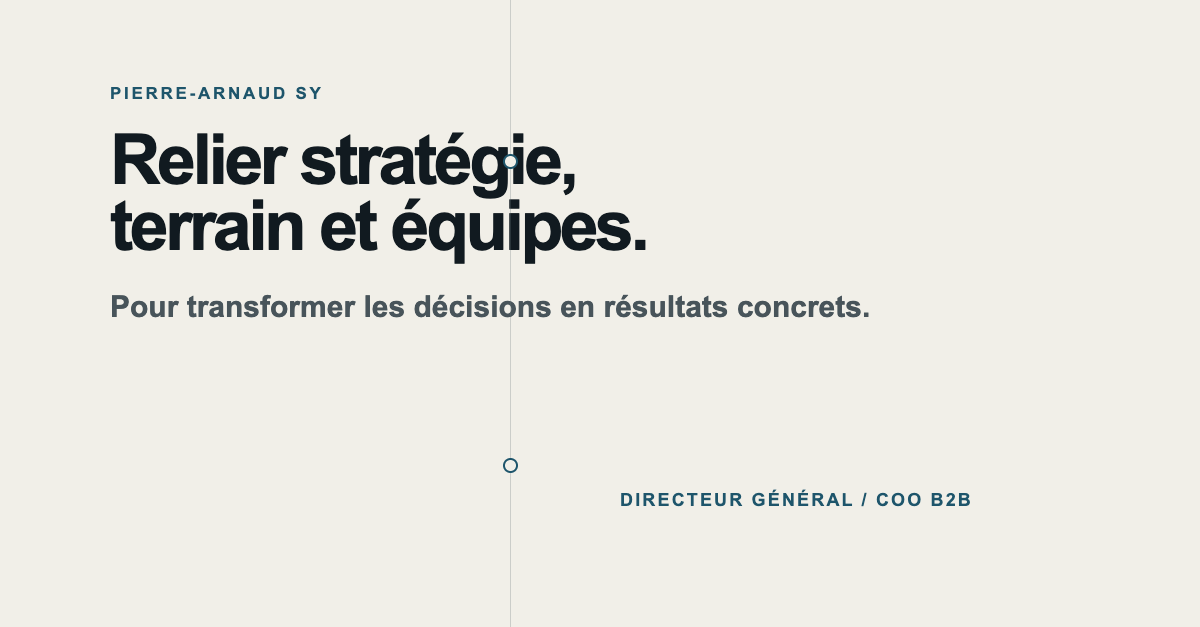
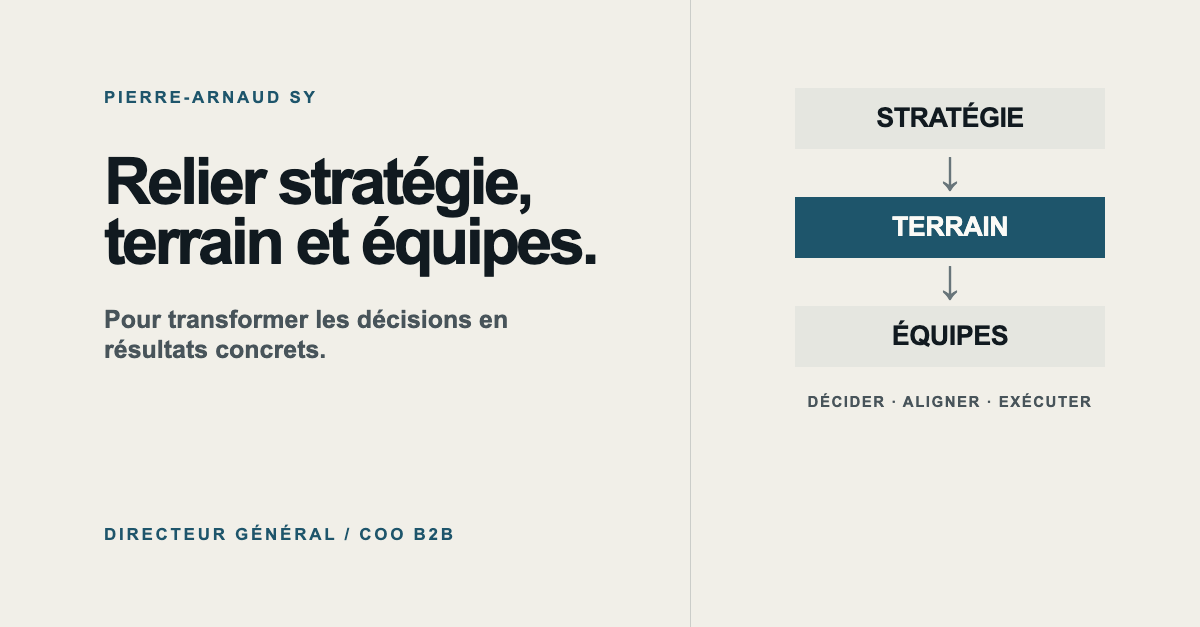
Refresh LinkedIn summary preview image

diff --git a/assets/og-image.html b/assets/og-image.html
@@ -4,7 +4,9 @@
   <meta charset="utf-8">
   <style>
     * { box-sizing: border-box; }
+
     body {
+      position: relative;
       width: 1200px;
       height: 627px;
       margin: 0;
@@ -12,23 +14,112 @@
       background: #F1EFE8;
       color: #111A20;
       font-family: Lato, "Liberation Sans", Arial, sans-serif;
-      padding: 84px 110px;
     }
-    .axis { position: absolute; top: 0; bottom: 0; left: 510px; width: 1px; background: rgba(104, 117, 122, 0.28); }
-    .axis::before, .axis::after { content: ""; position: absolute; left: -7px; width: 11px; height: 11px; border: 2px solid #1E556B; border-radius: 50%; background: #F1EFE8; }
-    .axis::before { top: 154px; }
-    .axis::after { bottom: 154px; }
-    .eyebrow { margin: 0 0 24px; color: #1E556B; font-size: 17px; font-weight: 700; letter-spacing: 0.16em; text-transform: uppercase; }
-    h1 { width: 800px; margin: 0; font-size: 70px; font-weight: 900; letter-spacing: -0.05em; line-height: 0.94; }
-    .sub { margin: 30px 0 0; color: #48545A; font-size: 30px; font-weight: 700; }
-    .role { position: absolute; left: 620px; bottom: 98px; color: #1E556B; font-size: 18px; font-weight: 700; letter-spacing: 0.12em; text-transform: uppercase; }
+
+    .left {
+      position: absolute;
+      top: 0;
+      bottom: 0;
+      left: 0;
+      width: 690px;
+      padding: 88px 0 78px 104px;
+    }
+
+    .eyebrow,
+    .role {
+      margin: 0;
+      color: #1E556B;
+      font-size: 17px;
+      font-weight: 700;
+      letter-spacing: 0.16em;
+      text-transform: uppercase;
+    }
+
+    h1 {
+      margin: 44px 0 32px;
+      font-size: 65px;
+      font-weight: 900;
+      letter-spacing: -0.055em;
+      line-height: 0.92;
+    }
+
+    .subline {
+      width: 470px;
+      margin: 0;
+      color: #48545A;
+      font-size: 25px;
+      font-weight: 700;
+      line-height: 1.2;
+    }
+
+    .role { position: absolute; bottom: 82px; }
+
+    .divider {
+      position: absolute;
+      top: 0;
+      bottom: 0;
+      left: 690px;
+      width: 1px;
+      background: rgba(104, 117, 122, 0.28);
+    }
+
+    .diagram {
+      position: absolute;
+      top: 88px;
+      right: 95px;
+      display: flex;
+      flex-direction: column;
+      align-items: center;
+      width: 310px;
+    }
+
+    .node {
+      width: 310px;
+      padding: 17px 20px;
+      background: rgba(30, 85, 107, 0.06);
+      color: #111A20;
+      font-size: 27px;
+      font-weight: 900;
+      letter-spacing: -0.02em;
+      line-height: 1;
+      text-align: center;
+    }
+
+    .node.accent { background: #1E556B; color: #FBFAF6; }
+
+    .arrow {
+      height: 48px;
+      color: #68757A;
+      font-size: 39px;
+      font-weight: 400;
+      line-height: 1.1;
+    }
+
+    .diagram-label {
+      margin: 26px 0 0;
+      color: #48545A;
+      font-size: 15px;
+      font-weight: 700;
+      letter-spacing: 0.1em;
+      text-transform: uppercase;
+    }
   </style>
 </head>
 <body>
-  <div class="axis"></div>
-  <p class="eyebrow">Pierre-Arnaud SY</p>
-  <h1>Relier stratégie,<br>terrain et équipes.</h1>
-  <p class="sub">Pour transformer les décisions en résultats concrets.</p>
-  <p class="role">Directeur Général / COO B2B</p>
+  <section class="left">
+    <p class="eyebrow">Pierre-Arnaud SY</p>
+    <h1>Relier stratégie,<br>terrain et équipes.</h1>
+    <p class="subline">Pour transformer les décisions en résultats concrets.</p>
+    <p class="role">Directeur Général / COO B2B</p>
+  </section>
+  <div class="divider" aria-hidden="true"></div>
+  <section class="diagram" aria-label="Stratégie vers terrain et équipes">
+    <div class="node">STRATÉGIE</div>
+    <div class="arrow">↓</div>
+    <div class="node accent">TERRAIN</div>
+    <div class="arrow">↓</div>
+    <div class="node">ÉQUIPES</div>
+    <p class="diagram-label">Décider · Aligner · Exécuter</p>
+  </section>
 </body>
 </html>
